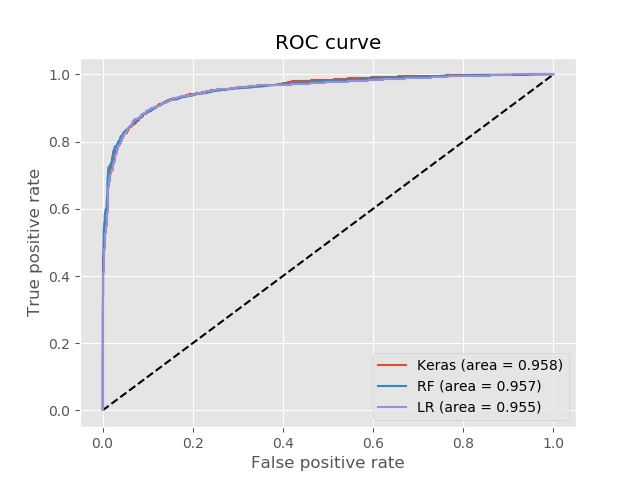
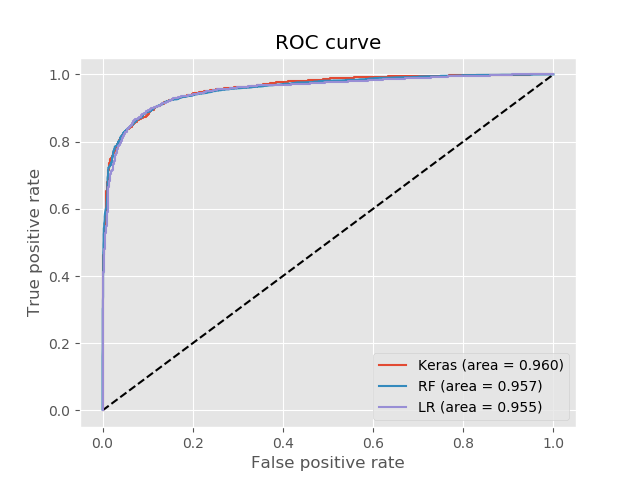
Reran graphs with settings outlined in paper
------Keras-----
Training loss:  0.28200535692908185
Training accuracy:  0.8835369132489499
Testing loss:  0.2747740071880537
Testing accuracy:  0.8883312422115116

-----LR-----
Testing Accuracy:  0.8937085499193403

-----RF-----
Testing Accuracy:  0.8935293063272988

Changed region(s): [[0.6562, 0.75, 0.875, 0.875], [0.5, 0.1562, 0.5312, 0.1875], [0.4062, 0.1562, 0.4375, 0.1875]]

diff --git a/Model Evaluation/ModelEval.py b/Model Evaluation/ModelEval.py
@@ -64,8 +64,6 @@ def BuildAnn(X_TRAIN, Y_TRAIN, X_TEST, Y_TEST, ann_options, verbose=True):
     #evalaute or predict
     training_res = model.evaluate(X_TRAIN, Y_TRAIN, batch_size=ann_options.batch_size, verbose=verbose)
     testing_res  = model.evaluate(X_TEST , Y_TEST , batch_size=ann_options.batch_size, verbose=verbose)
-    #training_res = model.predict(X_TRAIN, Y_TRAIN, batch_size=ann_options.batch_size)
-    #testing_res = model.predict(X_TEST, Y_TEST, batch_size=ann_options.batch_size)
 
     # need to return the TRAINING LOSS, TRAINING ACCURACY, TESTING LOSS, TESTING ACCURACY, the HISTORY
     return (training_res[0], training_res[1], testing_res[0], testing_res[1], hist, model)
@@ -78,6 +76,7 @@ data = data_csv.values
 ####################
 #shuffle data
 np.random.seed(123456)
+#np.random.seed(999)
 np.random.shuffle(data)
 
 #split into testing / training
@@ -97,9 +96,11 @@ Y_TESTING  = data_TESTING [:, last_column_index]    #classes
 
 #---------- Start Model Evaluation & Comparision ----------
 #Train ANN, LR, and RF
+#(activation_function, num_nodes_per_hidden, num_hidden_layers, batch_size, learning_rate)
 #testing_options = ANN_Options('elu', 12, 3, 32, 0.1) #Old dataset settings
 #testing_options = ANN_Options('relu', 6, 3, 32, 0.05) #New dataset settings
-testing_options = ANN_Options('elu', 9, 3, 32, 0.01)
+testing_options = ANN_Options('elu', 9, 3, 32, 0.1) #New new dataset settings
+#testing_options = ANN_Options('relu', 10, 1, 32, 0.01)
 print("Training: " + testing_options.writeToFile())
 results = BuildAnn(X_TRAINING, Y_TRAINING, X_TESTING, Y_TESTING, testing_options, verbose=True)
 model = results[5]
